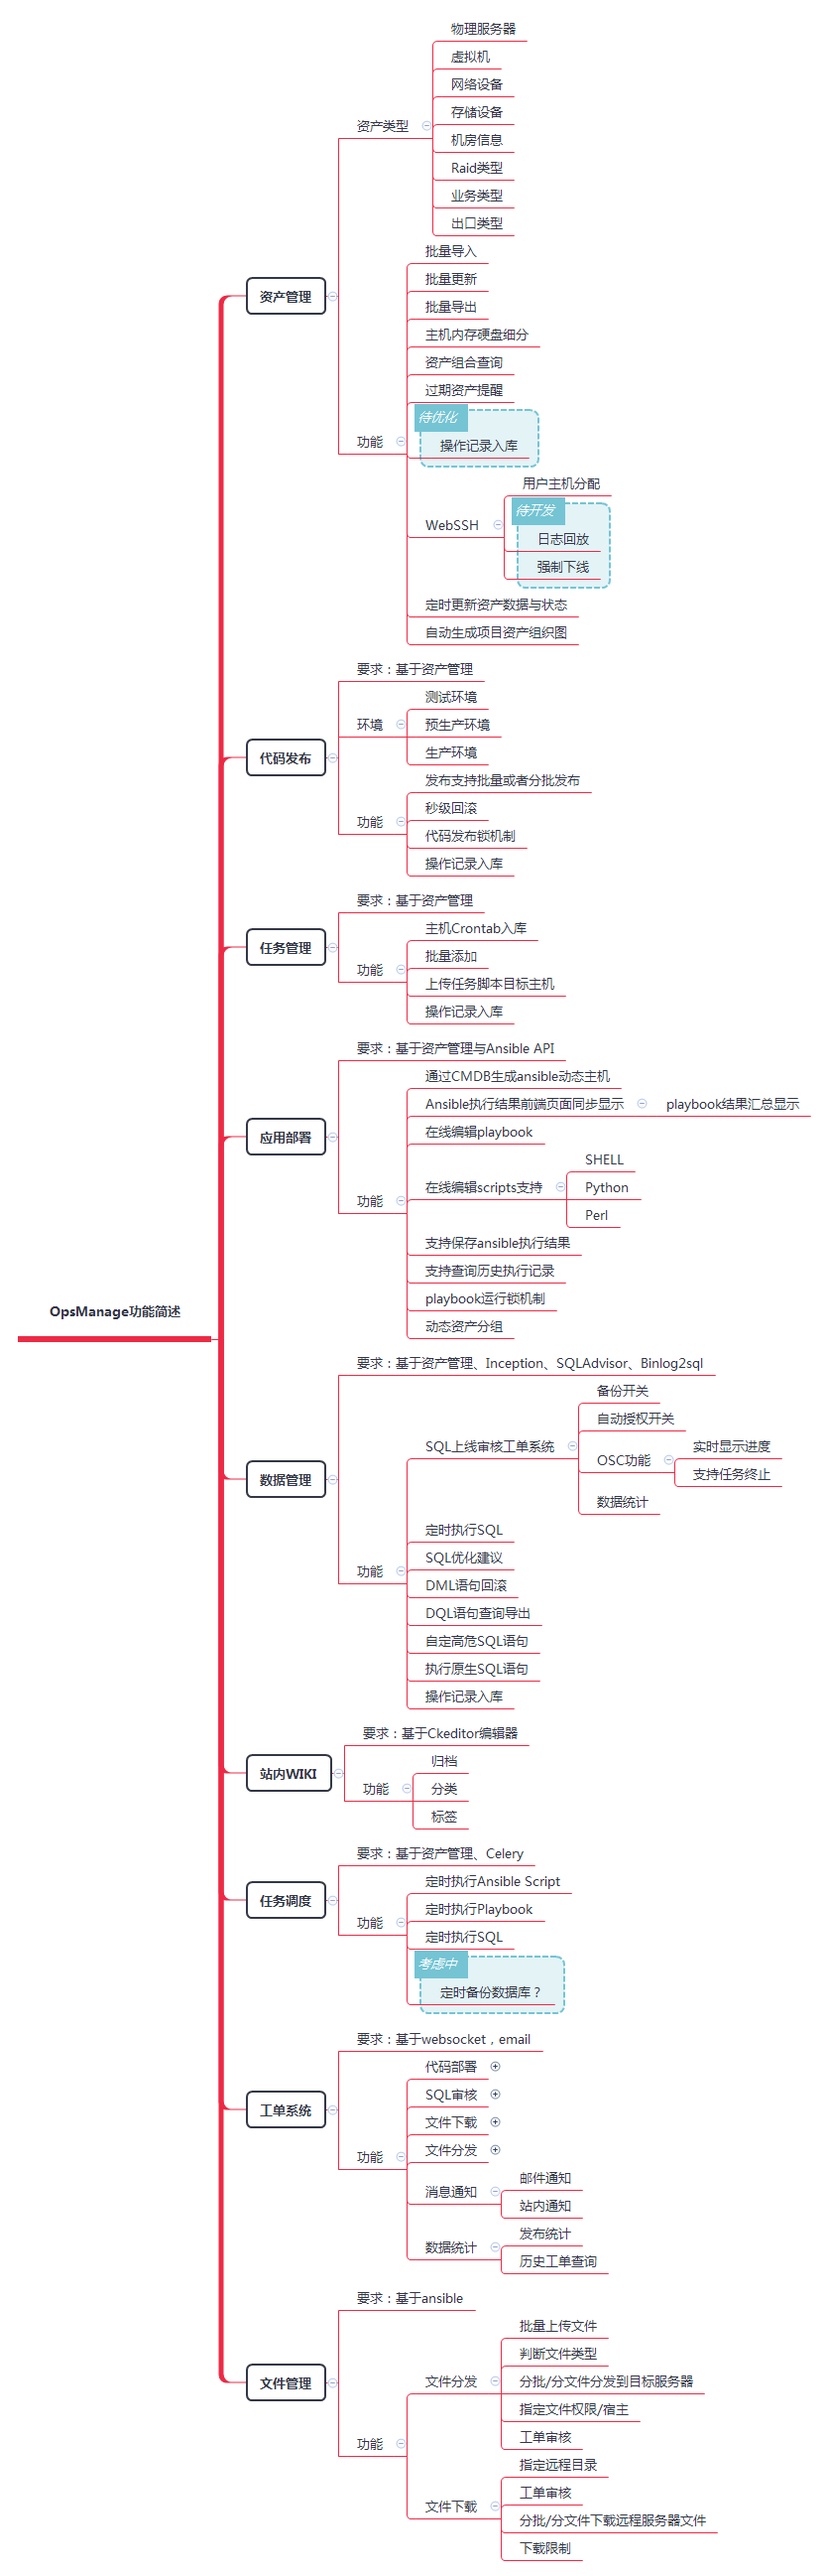
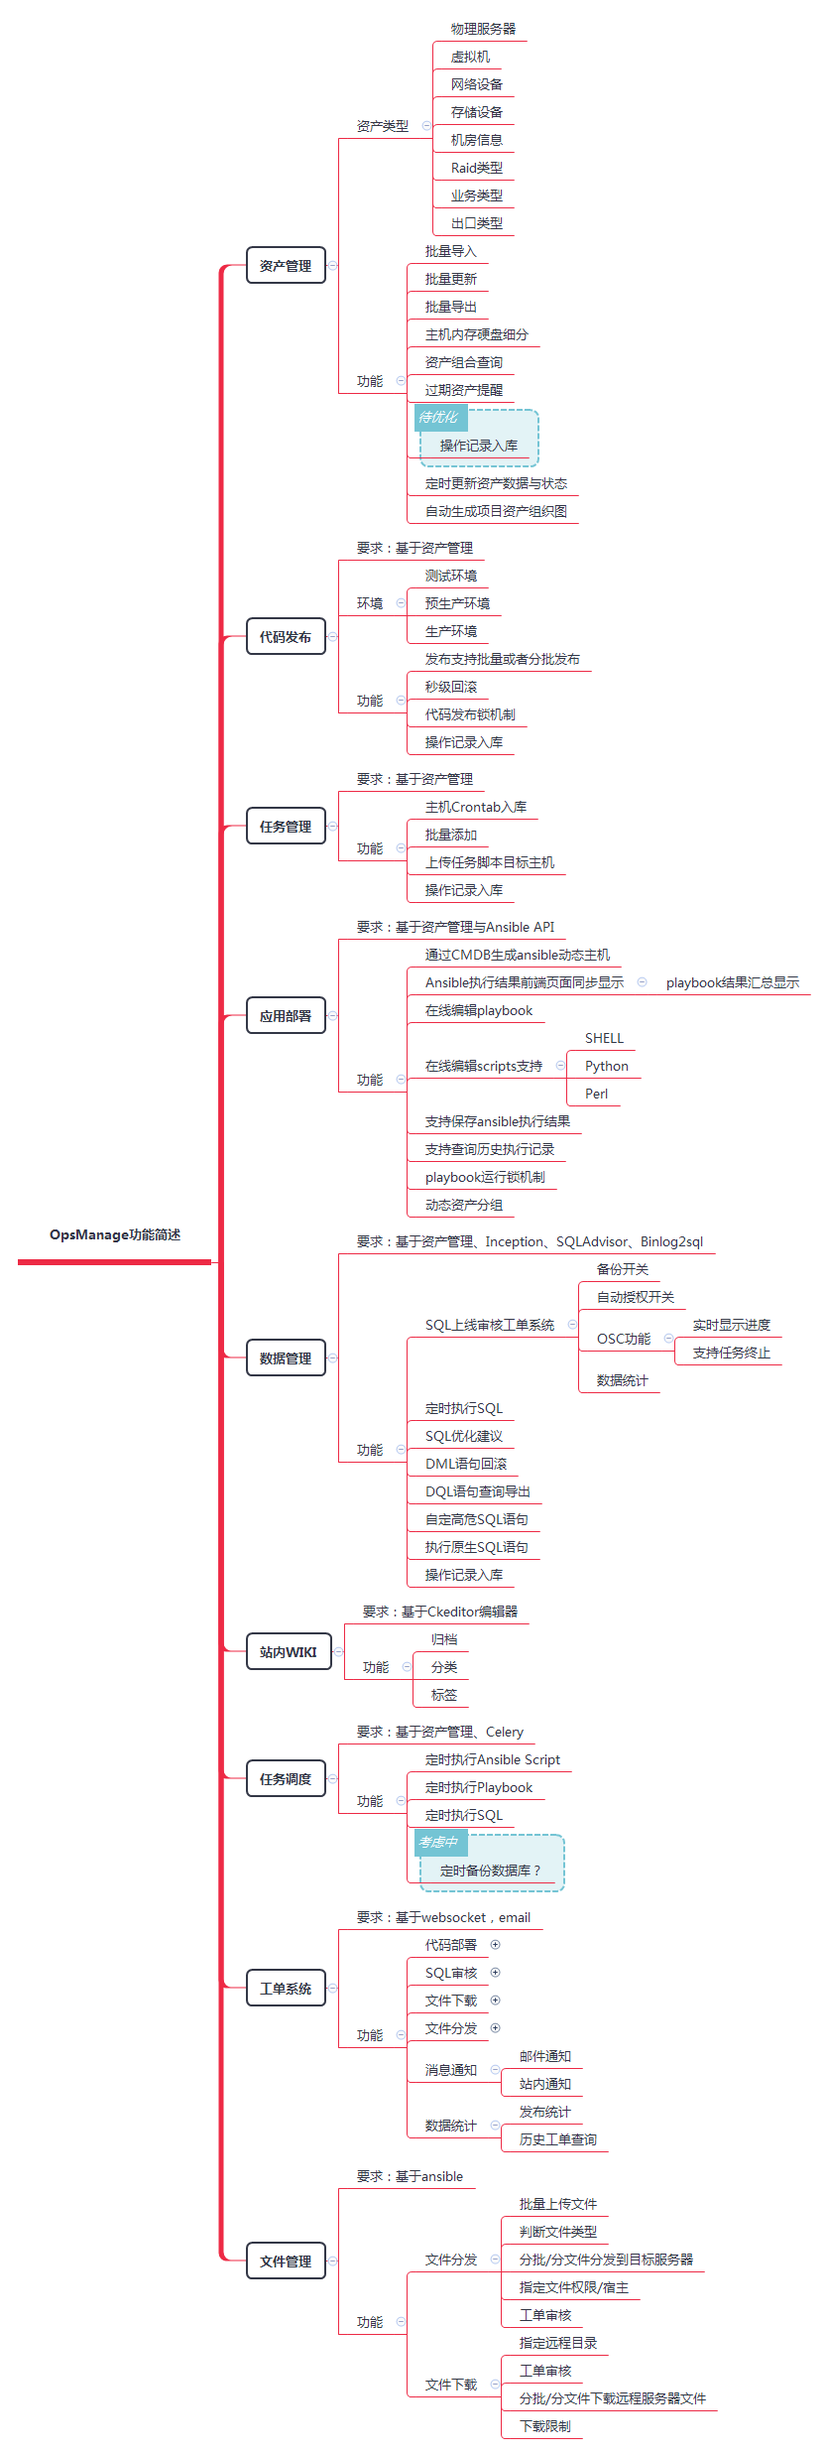
下线webssh功能

diff --git a/OpsManage/templates/config.html b/OpsManage/templates/config.html
@@ -130,7 +130,7 @@
 														</select>
 													 </div>
 												</div>																							
-												<div class="form-group" >
+<!-- 												<div class="form-group" >
 													 <label class="col-sm-2 control-label"><i class="fa fa-terminal"></i> WebSSH</label>
 													 <div class="col-sm-6">
 														<select class="form-control" name="webssh">
@@ -143,7 +143,7 @@
 															{% endif %}																		
 														</select>
 													 </div>
-												</div>	
+												</div> -->	
 												<div class="form-group" >
 													 <label class="col-sm-2 control-label"><i class="fa fa-github"></i> SQL</label>
 													 <div class="col-sm-6">

diff --git a/OpsManage/templates/users/user_info.html b/OpsManage/templates/users/user_info.html
@@ -19,7 +19,7 @@
 				           <ul class="nav nav-tabs">
 				              <li class="active"><a href="#home" data-toggle="tab"><i class="fa   fa-user"></i> 权限</a>
 				              </li>
-				              <li><a href="#profile" data-toggle="tab"><i class="fa    fa-linux"></i> 主机</a>
+				              <!-- <li><a href="#profile" data-toggle="tab"><i class="fa    fa-linux"></i> 主机</a> -->
 				              </li>
 				              {% if user_info.id !=  request.user.id and request.user.is_superuser %}
 							  <li><a href="#cpassword" data-toggle="tab"><i class="fa   fa-lock"></i> 重置密码</a>

diff --git a/OpsManage/urls.py b/OpsManage/urls.py
@@ -94,7 +94,6 @@ urlpatterns = [
     url(r'^user/center/$',users.user_center),
     url(r'^user/server/(?P<uid>[0-9]+)/$',users.user_server),
     url(r'^group/(?P<gid>[0-9]+)/$',users.group),
-    url(r'^webssh/(?P<sid>[0-9]+)/$',wssh.wssh),
     url(r'^roles/',elfinder.finder),
     url(r'^elfinder/',include('elfinder.urls')),
     url(r'^wiki/',include('wiki.urls')),
